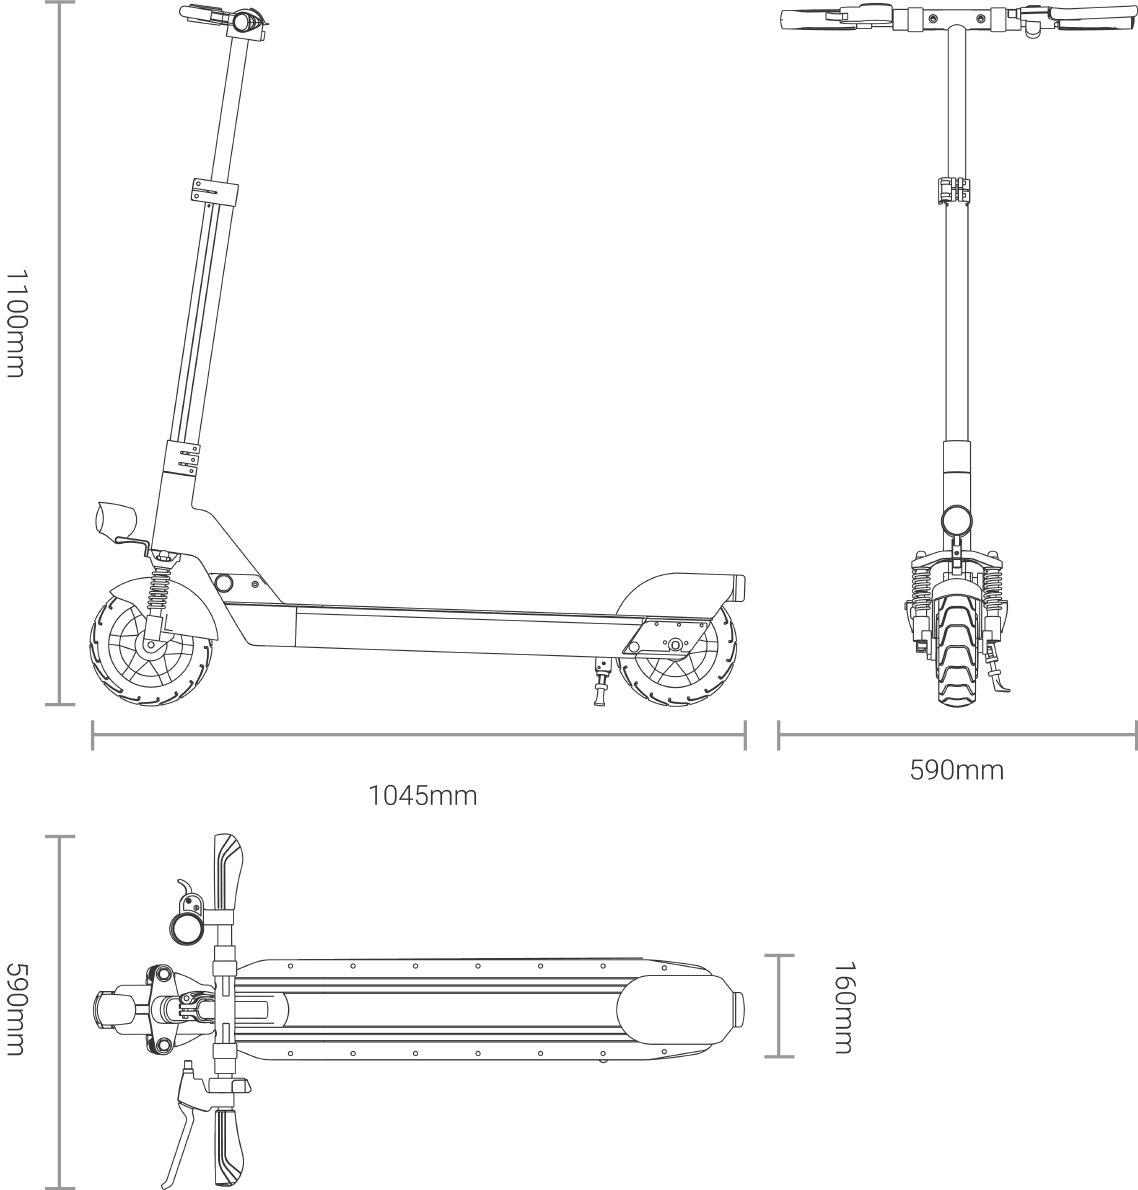
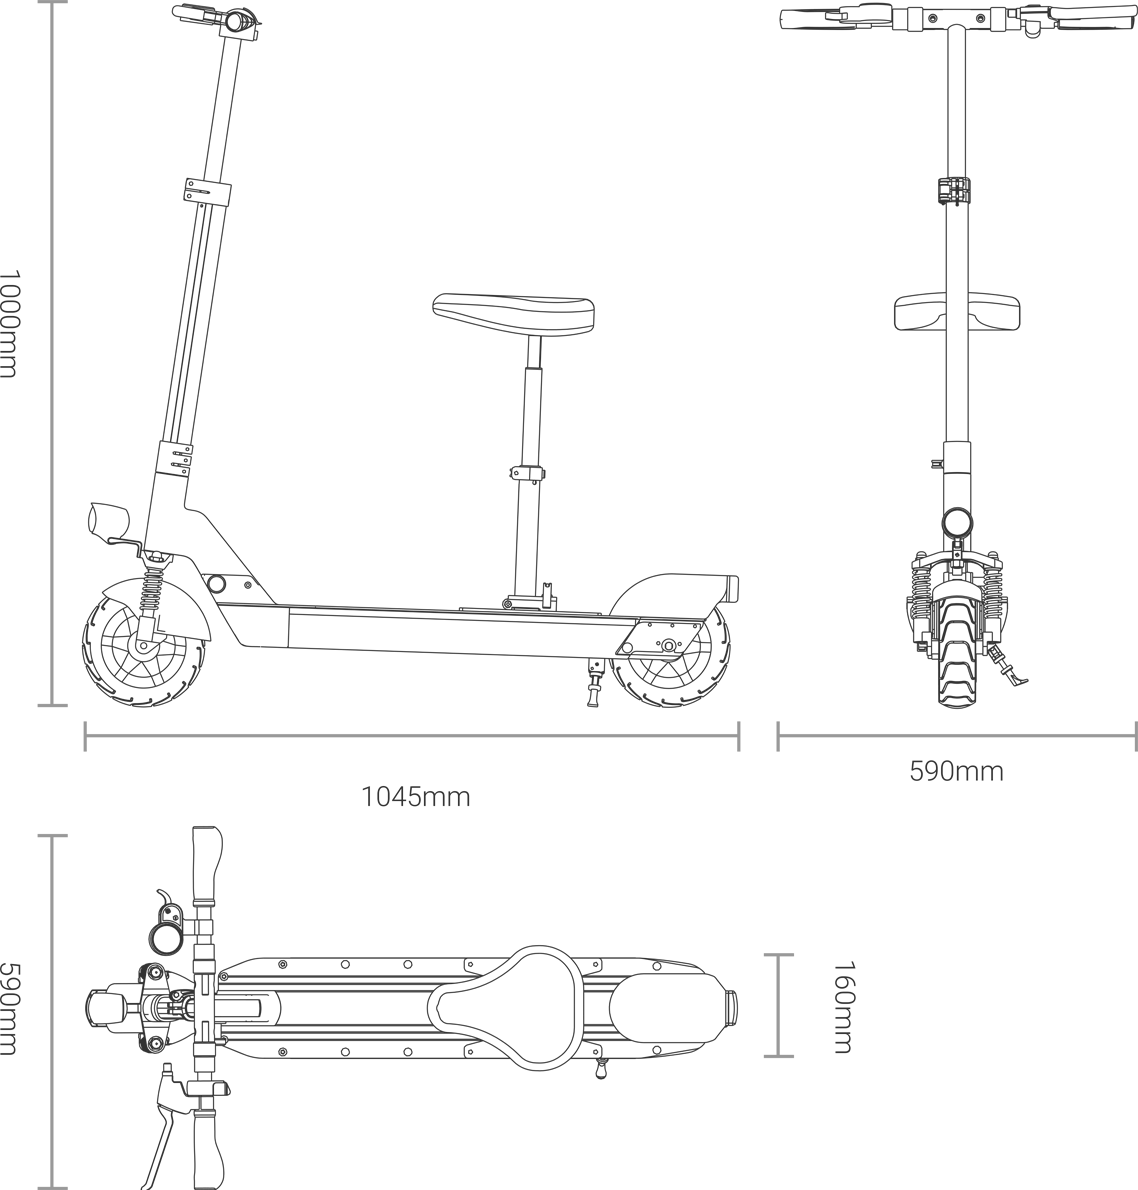
**UNSTABLE** Commit 16/01/23 - 更新微博链接 - 页脚添加备案信息 - 修改产品规格文字，并且替换三视图 - 统一头图处的“一号滑板车”和正文末尾的链接“一号产品”为“滑板车K1” - 更新微信弹窗内容将第一行“订阅号已开通”中的“订阅号”改为“服务号”，并且更换二维码图片
Bug Fix
- 手机版一级导航栏字号更正为18px
- 更正微信弹窗背景为100%不透明

diff --git a/public/stylesheets/main.css b/public/stylesheets/main.css
@@ -20,7 +20,7 @@
 .text-reverse-hover, .hyperlink.hyperlink-reverse:hover, nav.navbar.navbar-default .navbar-brand:hover, nav.navbar.navbar-default li > a:hover {
   color: #ececec; }
 
-.text-grey, footer > .container a.btn {
+.text-grey, footer > .container .footer-left small, footer > .container .footer-right a.btn {
   color: #6e6e6e; }
 
 .text-red, .hyperlink.hyperlink-red {
@@ -272,36 +272,43 @@ footer {
   transition: all 0.5s ease; }
   footer > .container {
     border-top: 1px solid #ececec; }
-    footer > .container a.btn {
-      -moz-box-shadow: none;
-      -webkit-box-shadow: none;
-      box-shadow: none;
-      padding: 3px 5px; }
-      footer > .container a.btn:last-child {
-        padding: 3px 0px 3px 25px; }
-      footer > .container a.btn:hover {
-        opacity: 0.75; }
-      footer > .container a.btn:focus {
-        border: none;
-        outline: none; }
-      footer > .container a.btn > img {
-        width: 16px; }
-    footer > .container .popover {
-      width: 450px;
-      max-width: 450px;
-      background: rgba(255, 255, 255, 0.96); }
-      footer > .container .popover .popover-title {
-        background: transparent;
-        font-size: 14px;
-        font-weight: 400;
-        text-align: center; }
-      footer > .container .popover .popover-content {
-        position: relative;
-        padding-bottom: 178px; }
-        footer > .container .popover .popover-content img.qrcode {
-          position: absolute;
-          bottom: 28px;
-          width: 150px; }
+    footer > .container .footer-left {
+      float: left; }
+      footer > .container .footer-left small {
+        line-height: 50px;
+        margin-bottom: 0px; }
+    footer > .container .footer-right {
+      float: right; }
+      footer > .container .footer-right a.btn {
+        -moz-box-shadow: none;
+        -webkit-box-shadow: none;
+        box-shadow: none;
+        padding: 3px 5px; }
+        footer > .container .footer-right a.btn:last-child {
+          padding: 3px 0px 3px 25px; }
+        footer > .container .footer-right a.btn:hover {
+          opacity: 0.75; }
+        footer > .container .footer-right a.btn:focus {
+          border: none;
+          outline: none; }
+        footer > .container .footer-right a.btn > img {
+          width: 16px; }
+      footer > .container .footer-right .popover {
+        width: 450px;
+        max-width: 450px;
+        background: white; }
+        footer > .container .footer-right .popover .popover-title {
+          background: transparent;
+          font-size: 14px;
+          font-weight: 400;
+          text-align: center; }
+        footer > .container .footer-right .popover .popover-content {
+          position: relative;
+          padding-bottom: 178px; }
+          footer > .container .footer-right .popover .popover-content img.qrcode {
+            position: absolute;
+            bottom: 28px;
+            width: 150px; }
   @media only screen and (max-width: 767px) {
     footer {
       background-color: #222429; }
@@ -384,15 +391,17 @@ nav.navbar {
     nav.navbar.navbar-primary .navbar-brand {
       padding: 16px 15px; }
     @media only screen and (max-width: 767px) {
-      nav.navbar.navbar-primary .navbar-collapse {
-        -moz-box-shadow: none;
-        -webkit-box-shadow: none;
-        box-shadow: none; }
-        nav.navbar.navbar-primary .navbar-collapse .nav li:last-child {
-          margin-bottom: 12px; }
-        nav.navbar.navbar-primary .navbar-collapse .nav li a {
-          line-height: 60px;
-          height: 60px; } }
+      nav.navbar.navbar-primary {
+        font-size: 18px; }
+        nav.navbar.navbar-primary .navbar-collapse {
+          -moz-box-shadow: none;
+          -webkit-box-shadow: none;
+          box-shadow: none; }
+          nav.navbar.navbar-primary .navbar-collapse .nav li:last-child {
+            margin-bottom: 12px; }
+          nav.navbar.navbar-primary .navbar-collapse .nav li a {
+            line-height: 60px;
+            height: 60px; } }
   nav.navbar.navbar-secondary {
     z-index: 9999;
     -webkit-transition: none;

diff --git a/public/stylesheets/main.scss b/public/stylesheets/main.scss
@@ -386,44 +386,55 @@ footer{
 	@include transition(all 0.5s ease);
 	>.container {
 		border-top: 1px solid $grey-light;
-		a.btn{
-			@extend .text-grey;
-			@include box-shadow(none);
-			padding: 3px 5px;
-			&:last-child {
-				padding: 3px 0px 3px 25px; 
-			}
-			&:hover{
-				opacity: 0.75;
-			}
-			&:focus{
-				border: none;
-    		outline:none;
-			}
-			&>img{
-				width: 16px;
+		.footer-left{
+			float:left;
+			small{
+				@extend .text-grey;
+				line-height: $footer-height;
+				margin-bottom: 0px;
 			}
 		}
-		.popover {
-			width: 450px;
-			max-width: 450px;
-			background: rgba($white, 0.96);
-			.popover-title {
-				background: transparent;
-				font-size: 14px;
-				font-weight: 400;
-				text-align: center;
-			}
-			.popover-content {
-				position: relative;
-				padding-bottom: 178px;
-				img.qrcode{
-					position: absolute;
-					bottom: 28px;
-					width: 150px;
+		.footer-right {
+			float: right;
+			a.btn{
+				@extend .text-grey;
+				@include box-shadow(none);
+				padding: 3px 5px;
+				&:last-child {
+					padding: 3px 0px 3px 25px; 
+				}
+				&:hover{
+					opacity: 0.75;
+				}
+				&:focus{
+					border: none;
+	    		outline:none;
+				}
+				&>img{
+					width: 16px;
 				}
 			}
-		}	
+			.popover {
+				width: 450px;
+				max-width: 450px;
+				background: $white;
+				.popover-title {
+					background: transparent;
+					font-size: 14px;
+					font-weight: 400;
+					text-align: center;
+				}
+				.popover-content {
+					position: relative;
+					padding-bottom: 178px;
+					img.qrcode{
+						position: absolute;
+						bottom: 28px;
+						width: 150px;
+					}
+				}
+			}	
+		}
 	}
 	@media only screen and (max-width: $phone-max) {
 		background-color: $darker-bg;
@@ -528,6 +539,7 @@ nav.navbar{
 			padding: 16px 15px;
 		}
 		@media only screen and (max-width: $phone-max){  // Phone
+			font-size: 18px;
 			.navbar-collapse {
 				@include box-shadow(none);
 				.nav li {			
